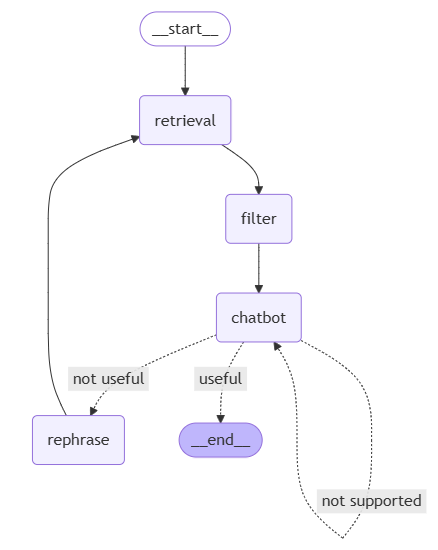
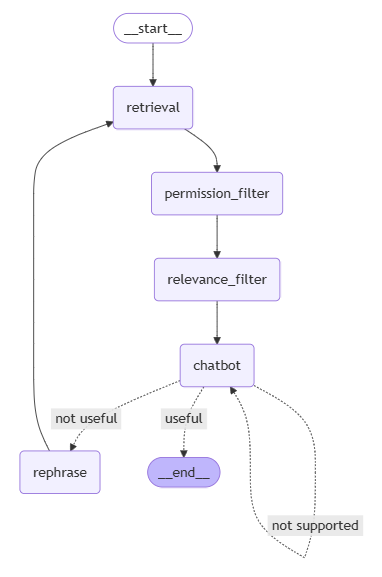
update

diff --git a/nlp/retrieval_augmented_generation_graph/graph.py b/nlp/retrieval_augmented_generation_graph/graph.py
@@ -57,7 +57,30 @@ for vectorstore retrieval. Look at the input and try to reason about the underly
     documents = state['documents']
     documents = [doc for doc in documents if doc.metadata['classification'] <= rank]
     return {'rank': rank, 'chat_history': chat_history, 'question': question, 'documents': documents}
-  graph_builder.add_node("filter", filterdoc)
+  graph_builder.add_node("permission_filter", filterdoc)
+  # create retrieval grader node
+  retrieval_grader_prompt = ChatPromptTemplate.from_messages([
+    ('system', """You are a grader assessing relevance of a retrieved document to a user question. \n 
+If the document contains keyword(s) or semantic meaning related to the user question, grade it as relevant. \n
+It does not need to be a stringent test. The goal is to filter out erroneous retrievals. \n
+Give a binary score 'yes' or 'no' score to indicate whether the document is relevant to the question."""),
+    ('user', "Retrieved document: \n\n {document} \n\n User question: {question}")
+  ])
+  retrievance_grader = retrieval_grader_prompt | llm
+  def relevance_filter(state: State):
+    rank = state['rank']
+    chat_history = state['chat_history']
+    question = state['question']
+    documents = state['documents']
+    filtered_docs = list()
+    for d in documents:
+      score = retrievance_grader.invoke({'document': d, 'question': question})
+      if score.content.lower() == 'yes':
+        filtered_docs.append(d)
+      else:
+        continue
+    return {'rank': rank, 'chat_history': chat_history, 'question': question, 'documents': filtered_docs}
+  graph_builder.add_node("relevance_filter", relevance_filter)
   # create generation node
   prompt = ChatPromptTemplate.from_messages([
     ('system', 'Answer any use questions in the language in which it was entered or required based solely on the context below:\n\n<context>\n{context}\n</context>'),
@@ -98,8 +121,9 @@ Give a binary score 'yes' or 'no'. Yes' means that the answer resolves the quest
       return 'not supported'
   # add edges
   graph_builder.add_edge(START, "retrieval")
-  graph_builder.add_edge("retrieval", "filter")
-  graph_builder.add_edge("filter", "chatbot")
+  graph_builder.add_edge("retrieval", "permission_filter")
+  graph_builder.add_edge("permission_filter", "relevance_filter")
+  graph_builder.add_edge("relevance_filter", "chatbot")
   graph_builder.add_conditional_edges("chatbot", check_output, {
     'useful': END, # answer the question -> end
     'not useful': 'rephrase', # not answer the question -> rephrase
